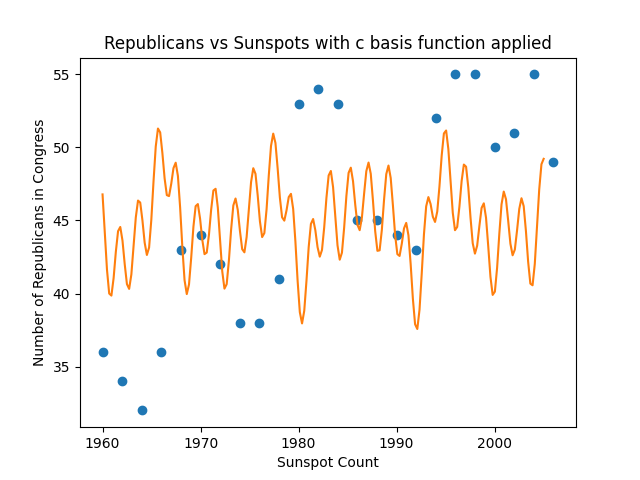
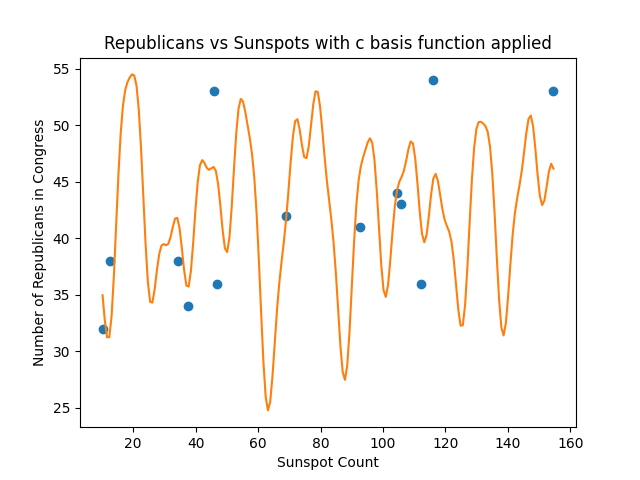
found error

diff --git a/hw1/T1_P4.py b/hw1/T1_P4.py
@@ -64,6 +64,7 @@ X = np.vstack((np.ones(years.shape), years)).T
 
 # Nothing fancy for outputs.
 Y = republican_counts
+Y_cut = republican_counts[:13]
 # Find the regression weights using the Moore-Penrose pseudoinverse.
 def find_weights(X,Y):
     w = np.dot(np.linalg.pinv(np.dot(X.T, X)), np.dot(X.T, Y))
@@ -175,22 +176,22 @@ def plot_q2_pt(figure, part):
     # Create a single a figure
     plt.figure(figure)
     # Add data points
-    plt.plot(years, republican_counts, 'o')
+    plt.plot(cut_sunspot_counts, Y_cut, 'o')
     plt.xlabel("Sunspot Count")
     plt.ylabel("Number of Republicans in Congress")
     plt.title("Republicans vs Sunspots with "+ part +" basis function applied")
 
     # Perform basis transformation
-    X_new_basis = make_basis(sunspot_counts, part, is_years=False)
+    X_new_basis = make_basis(cut_sunspot_counts, part, is_years=False)
     X_new_grid = make_basis(grid_sunspot_counts, part, is_years=False)
     # This does the linear regression
-    w = find_weights(X_new_basis,Y)
+    w = find_weights(X_new_basis,Y_cut)
     # This creates a series of predicted y_hat values to draw the best-fit line
     grid_Yhat  = np.dot(X_new_grid, w)
-    plt.plot(grid_years, grid_Yhat, '-')
+    plt.plot(grid_sunspot_counts, grid_Yhat, '-')
     
     # TODO: plot and report sum of squared error for each basis
-    print("L2 Loss: ", sum((Y - np.dot(X_new_basis,w))**2))
+    print("L2 Loss: ", sum((Y_cut - np.dot(X_new_basis,w))**2))
 
 def plot_q2():
     basis_list=["a", "c", "d"]
@@ -198,7 +199,7 @@ def plot_q2():
         print("computing basis: ", basis[1])
         plot_q2_pt(*basis)
 
-plot_q1()
-plt.show()
+# plot_q1()
+# plt.show()
 plot_q2()
 plt.show()
